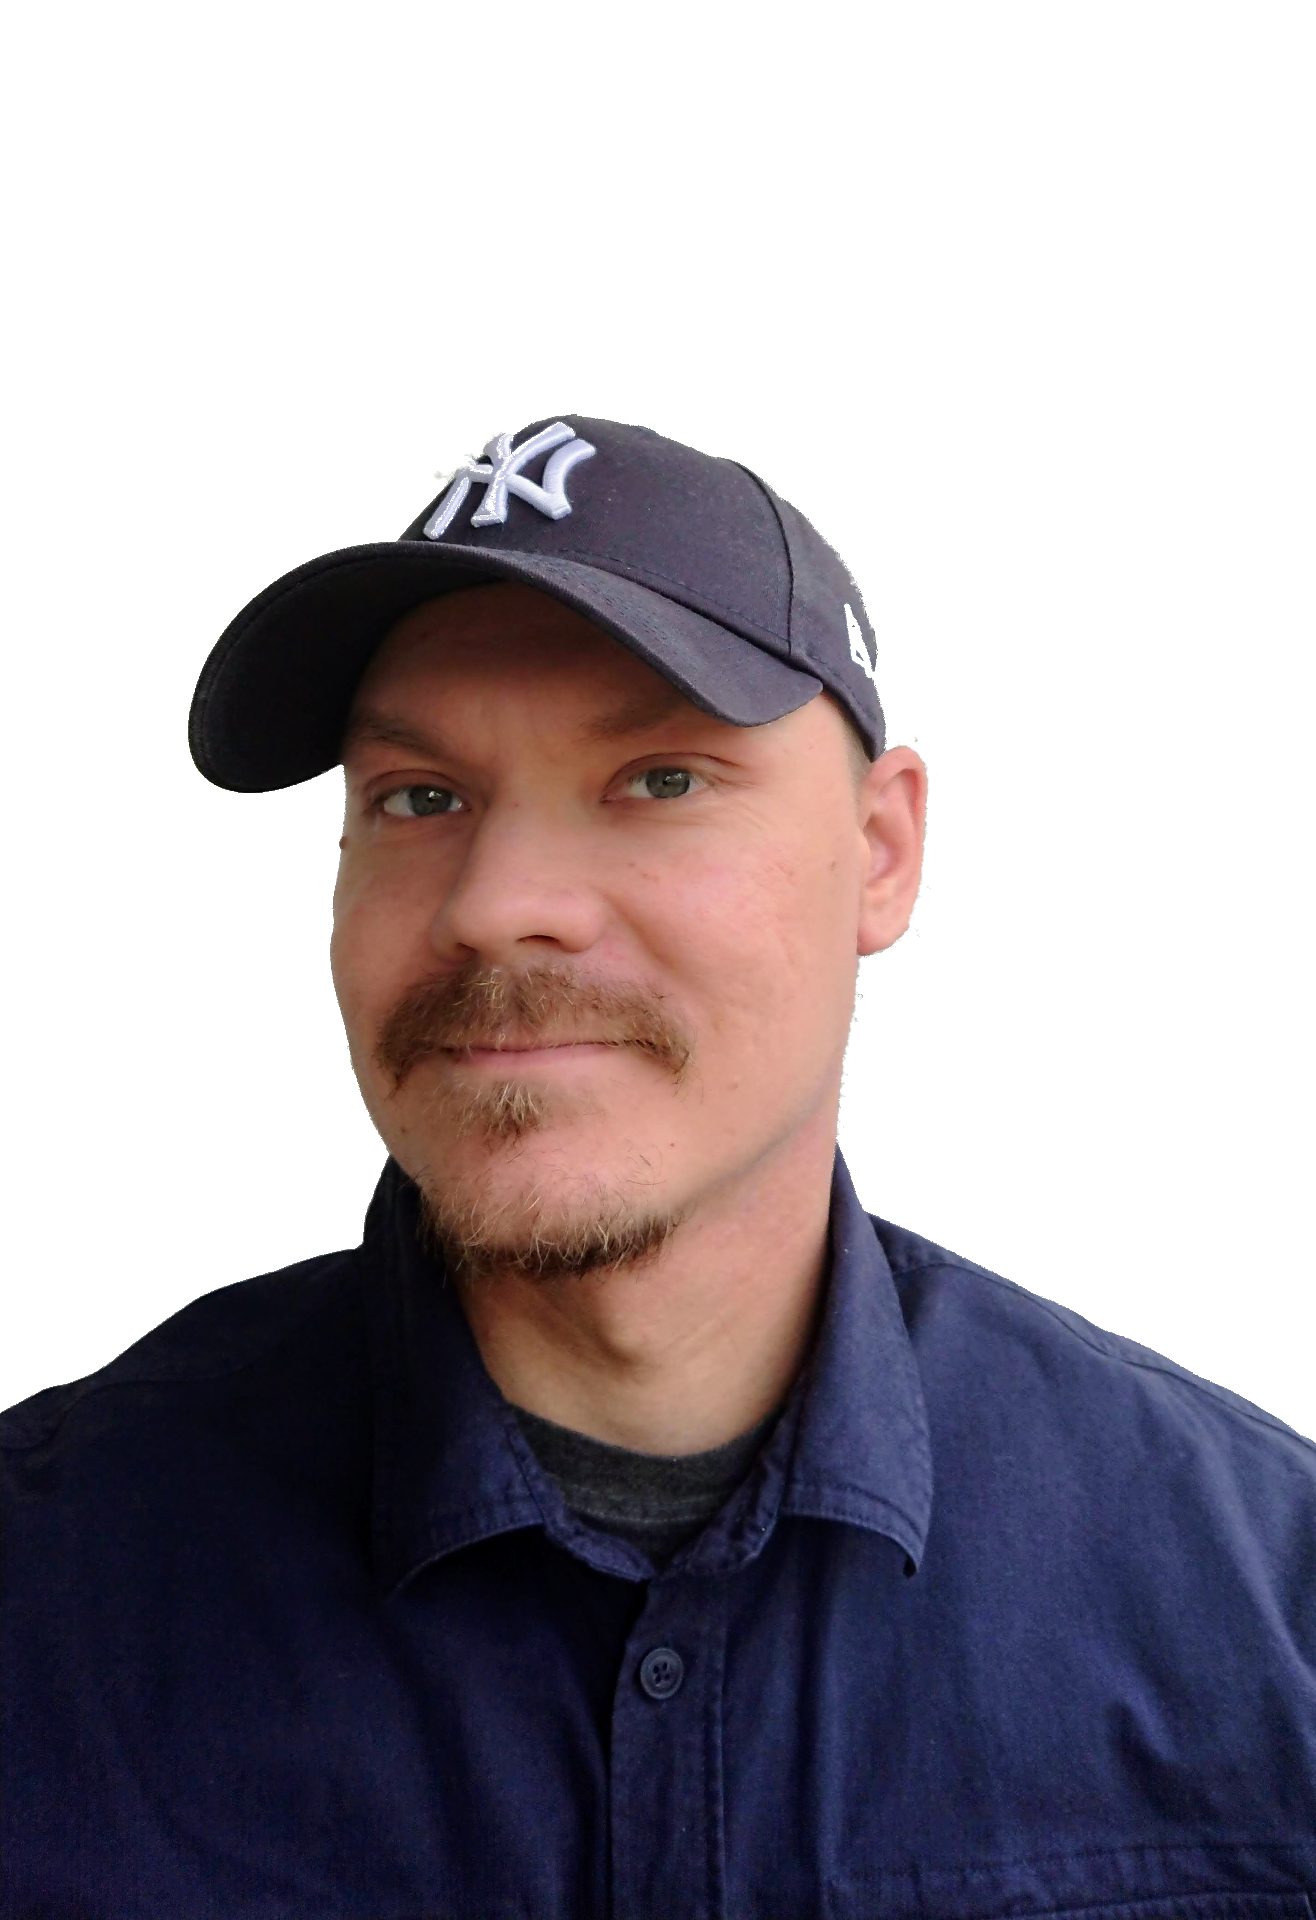
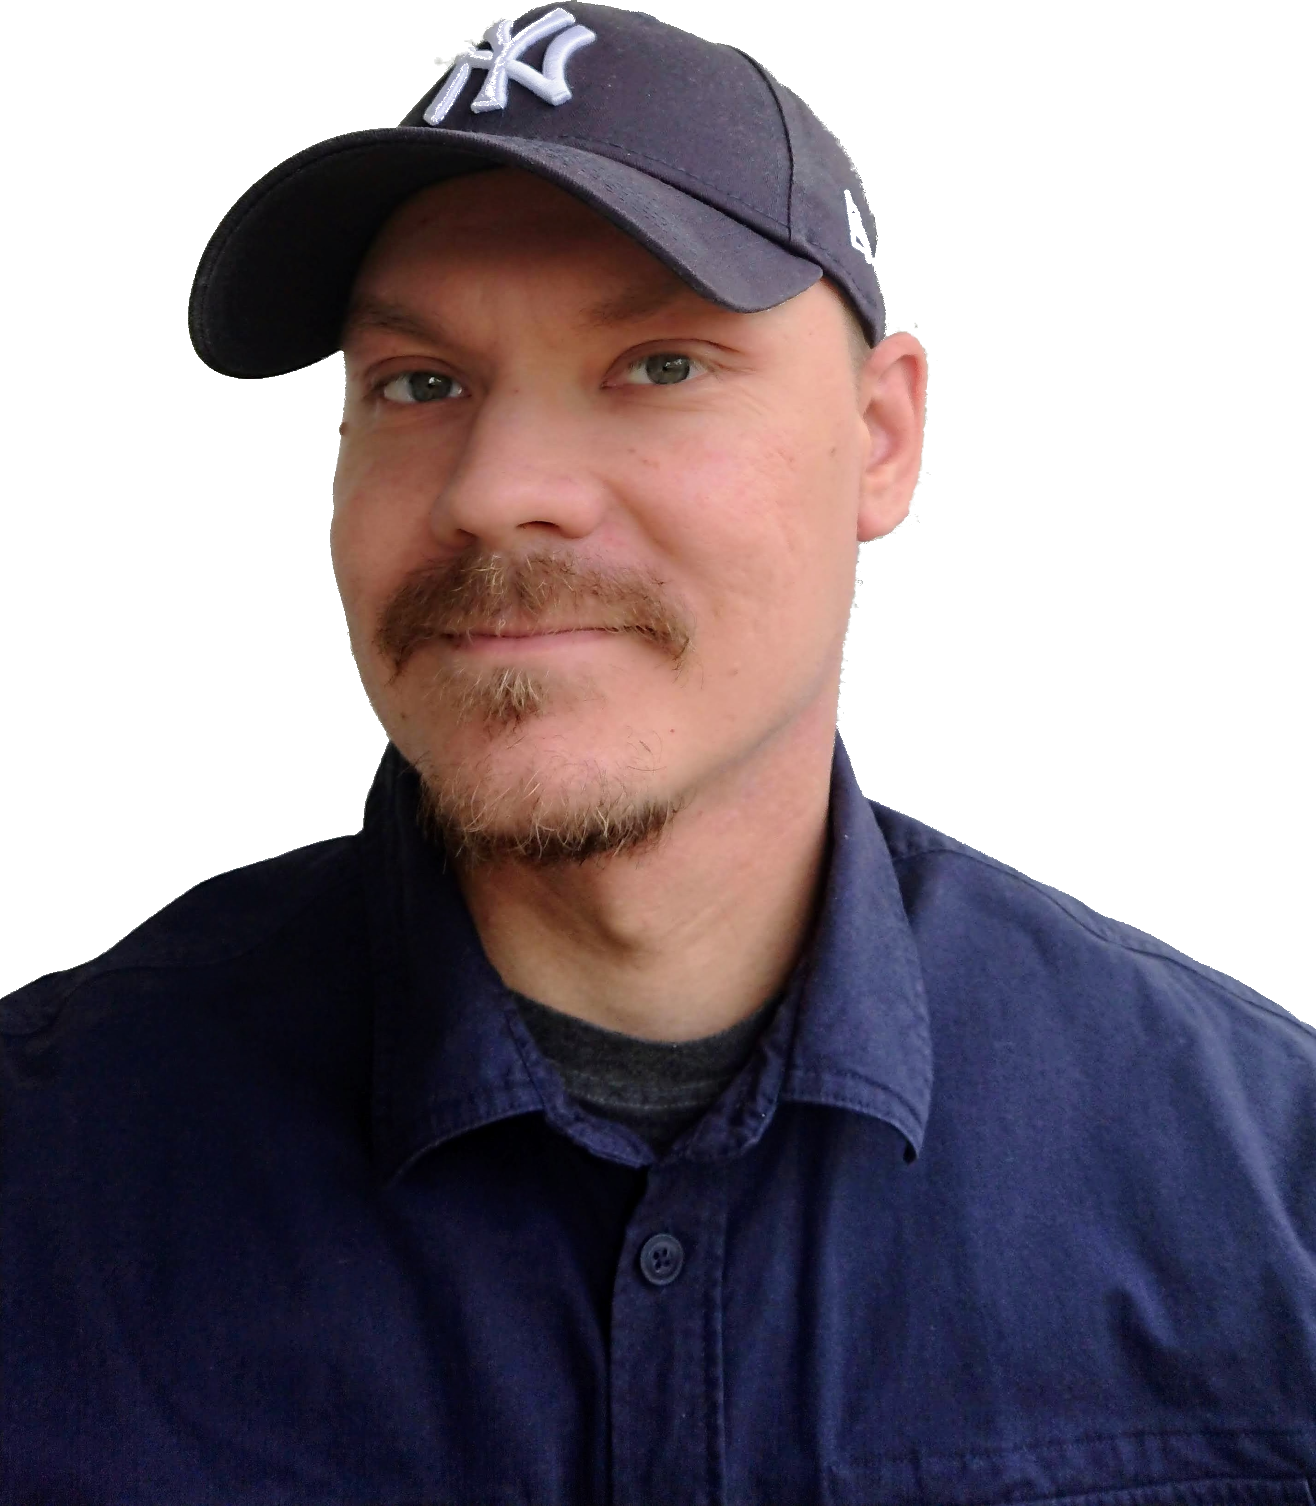
upload new NH-photo3.JPG.png

diff --git a/src/index.css b/src/index.css
@@ -44,7 +44,7 @@ body {
 }
 
 .hire-me-button {
-    background-color: #007BFF;
+    background-color: #007bff;
     color: white;
     padding: 15px 50px;
     font-size: 24px;
@@ -53,16 +53,15 @@ body {
     cursor: pointer;
     text-decoration: none;
     transition: background-color 0.3s ease;
-  }
+}
 
-  .hire-me-button:hover {
+.hire-me-button:hover {
     background-color: #0056b3;
-  }
+}
 
-  .hire-me-button:active {
+.hire-me-button:active {
     background-color: #004085;
-  }
-
+}
 
 .toggle-theme-button {
     background-color: #020202;
@@ -776,8 +775,8 @@ h3 {
 }
 
 .header2-info p {
-   padding: 0;
-   margin-bottom: 0.5rem;
+    padding: 0;
+    margin-bottom: 0.5rem;
 }
 
 .header2-info h2 {
@@ -792,17 +791,20 @@ h3 {
     right: 100px;
     top: 5rem;
     position: absolute;
+
 }
 
 .header2-img-box img {
     width: 600px;
-    height: 850px;
+    height: 680px;
     left: 45%;
     position: absolute;
     bottom: 0;
     transform: translateX(-50%);
     transition: bottom 1s, left 1s;
     transition: 1s;
+    margin-top: 0;
+    padding-top: 0;
 }
 
 .hidden {
@@ -840,17 +842,13 @@ h3 {
 }
 
 @media (max-width: 1200px) {
-
-
     .toggle-theme-button {
         top: 20%;
         right: 8%;
     }
 }
 
-
 @media (max-width: 700px) {
-
     .toggle-theme-button {
         top: 5.5%;
         right: 40%;
@@ -898,11 +896,6 @@ h3 {
     hyphens: manual;
 }
 
-
-
-
-
-
 .container-left-align ul {
     display: flex;
     flex-wrap: wrap;
@@ -919,7 +912,7 @@ h3 {
     padding: 10px;
     margin: 10px;
     flex: 1 0 200px; /* Adjust this value to change the minimum width of the items */
-    transition: background .3s;
+    transition: background 0.3s;
     color: #3d009e;
     box-shadow: 0px 5px 15px rgba(73, 0, 190, 0.5);
 }
@@ -951,7 +944,9 @@ form label {
     margin-bottom: 20px;
 }
 
-form input[type="text"], form input[type="email"], form textarea {
+form input[type="text"],
+form input[type="email"],
+form textarea {
     width: 100%;
     padding: 10px;
     border: 1px solid #ccc;
@@ -971,11 +966,9 @@ form button {
     color: #fff;
     cursor: pointer;
     font-size: large;
-    transition: background-color .3s;
+    transition: background-color 0.3s;
 }
 
 form button:hover {
     background-color: #5517ff;
 }
-
-
